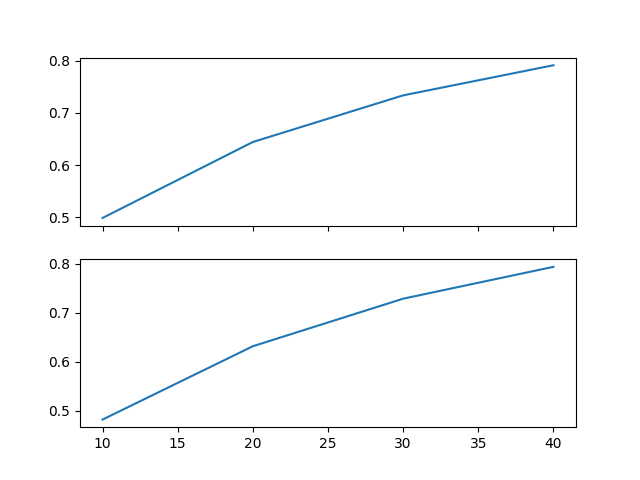
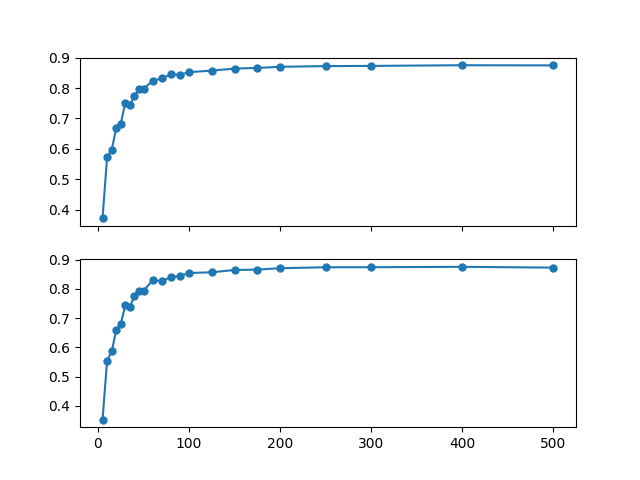
Improving plotting for projection

diff --git a/figures/plot_projection_esn.py b/figures/plot_projection_esn.py
@@ -36,13 +36,13 @@ def plot_data(df: pd.DataFrame, save_path: Optional[str] = None) -> None:
         "marker": "o",
         "markersize": 5
     }
-    fig, (ax1, ax2) = plt.subplots(2, 1, sharex=True)
-    ax1.plot(df.loc[:, "dim"], df.loc[:, "train_accuracy"], 
-             label="Train accuracy", **marker_kwargs)
-    ax2.plot(df.loc[:, "dim"], df.loc[:, "test_accuracy"], 
-             label="Test accuracy", **marker_kwargs)
-
-    plt.subplots_adjust(hspace=0.2)
+    for tag in list(df.loc[:, "tag"].unique()):
+        # creating mask
+        m = df["tag"] == tag
+        plt.plot(df.loc[m, "dim"], df.loc[m, "test_accuracy"], 
+                label=tag, **marker_kwargs)
+    plt.ylabel("Accuracy")
+    plt.xlabel("Dimension")
     if save_path is not None: plt.savefig(save_path)
     plt.show()
 
@@ -50,23 +50,27 @@ def plot_data(df: pd.DataFrame, save_path: Optional[str] = None) -> None:
 def main(
         df_path: str = "figures/plot_projection_df.csv",
         figure_path: str = "figures/plot_projection_graph.png",
+        tag: str = "normal"
 ):
     """"""
     mnist_dataloader = MnistDataloader(TRAINING_IMAGES_FILEPATH, TRAINING_LABELS_FILEPATH,
                                         TEST_IMAGES_FILEPATH, TEST_LABELS_FILEPATH)
     
     proj_dimensions: List[int] = [
-        *range(10, 50, 10),
-        #*range(100, 300, 50),
-        #*range(300, 501, 100)
+        *range(5, 50, 5),
+        *range(50, 100, 10),
+        *range(100, 200, 25),
+        *range(200, 300, 50),
+        *range(300, 501, 100),
     ]
+    print(proj_dimensions)
     result_records: List[Dict[str, Any]] = []
     for input_dim in tqdm.tqdm(proj_dimensions):
         (x_train, y_train), (x_test, y_test) = mnist_dataloader.prepare_data(
             normalize=True, 
             # crop_top=2, crop_bot=2, crop_left=2, crop_right=2,
             # out_format="column",
-            # hog={"image_shape": (28,28), "cell": (8,8), "block": (2,2), "keep_inputs": True},
+            hog={"image_shape": (28,28), "cell": (8,8), "block": (2,2), "keep_inputs": True},
             projection=input_dim,
             silent=True,
         )
@@ -99,16 +103,21 @@ def main(
             "train_accuracy": train_acc,
             "test_accuracy": test_acc,
             "time": computation_time,
+            "tag": tag,
         })
 
-    # Saving data
-    df: pd.DataFrame = pd.DataFrame.from_records(result_records)
+    # Saving data by concatenating with what we already have and keeping the latest
+    df = pd.read_csv(df_path, sep=";")
+    df2: pd.DataFrame = pd.DataFrame.from_records(result_records)
+    df = pd.concat([df, df2])
+    df.drop_duplicates(subset=["dim", "tag"], keep="last")
     df.to_csv(df_path, index=False, sep=";")
 
     # Plotting
     plot_data(df, figure_path)
 
 if __name__ == "__main__":
-    # main()
-    df = pd.read_csv("figures/plot_projection_df.csv", sep=";")
-    plot_data(df)
+    # main(tag="normal")
+    main(tag="hog")  # you need to uncomment the hog part as well
+    # df = pd.read_csv("figures/plot_projection_df.csv", sep=";")
+    # plot_data(df)

diff --git a/utils.py b/utils.py
@@ -161,12 +161,13 @@ def accuracy(y_pred: np.ndarray, y_true: np.ndarray) -> float:
 def calc_hog_features(X, image_shape=(28, 28), 
                       cell=(8, 8),
                       block=(2,2),
-                      keep_inputs: Optional[bool] = False):
+                      keep_inputs: Optional[bool] = False,
+                      silent: bool = True):
     """
     Converts input data into Histogram of Oriented Gradients
     """
     fd_list = []
-    for row in tqdm.tqdm(X, "Computing HOG"):
+    for row in tqdm.tqdm(X, "Computing HOG", disable=silent):
         img = row.reshape(image_shape)
         fd = hog(img, orientations=8, pixels_per_cell=cell, cells_per_block=block)
         fd_list.append(fd)
@@ -270,8 +271,8 @@ class MnistDataloader(object):
 
         # HOG
         if hog is not None:
-            x_test_numpy = calc_hog_features(x_test_numpy, **hog)
-            x_train_numpy = calc_hog_features(x_train_numpy, **hog)
+            x_test_numpy = calc_hog_features(x_test_numpy, **hog, silent=silent)
+            x_train_numpy = calc_hog_features(x_train_numpy, **hog, silent=silent)
 
         # Random projection
         if projection is not None:
